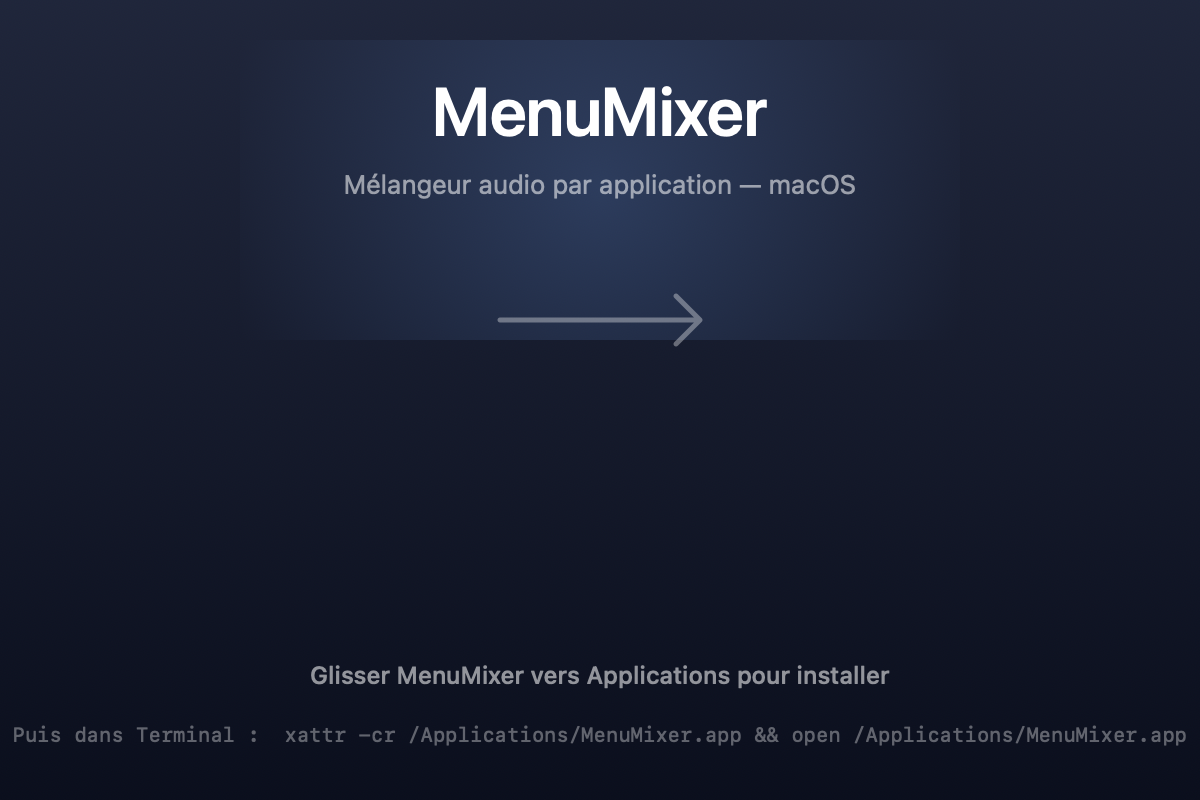
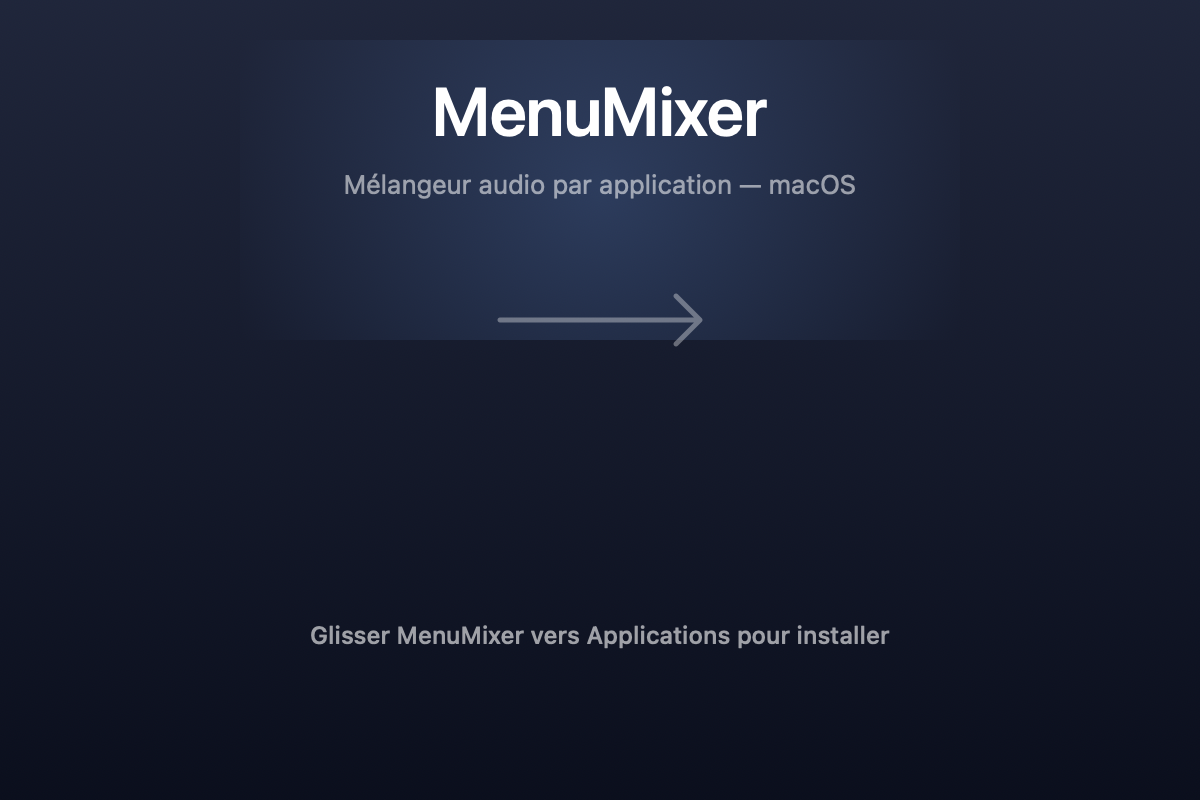
v1.2.1 — Fix background DMG : texte masqué par la status bar Finder
Le rappel Terminal (monospace en bas du PNG) était caché par la status
bar du Finder qui occupe ~30px en bas de la fenêtre. L'instruction
principale "Glisser vers Applications" était aussi très près de la
limite.

- Retrait du rappel Terminal dans le PNG (l'info est déjà dans la
  release GitHub et le README, pas besoin de la dupliquer).
- Remontée de l'instruction "Glisser..." à y=75 pour être bien au-dessus
  de la status bar.

diff --git a/scripts/generate-dmg-background.swift b/scripts/generate-dmg-background.swift
@@ -80,29 +80,17 @@ let captionAttrs: [NSAttributedString.Key: Any] = [
     .foregroundColor: NSColor.white.withAlphaComponent(0.75)
 ]
 
-// Instructions en bas
+// Instructions en bas (remontées pour être au-dessus de la status bar Finder)
 let instrAttrs: [NSAttributedString.Key: Any] = [
     .font: NSFont.systemFont(ofSize: 12, weight: .medium),
-    .foregroundColor: NSColor.white.withAlphaComponent(0.55)
+    .foregroundColor: NSColor.white.withAlphaComponent(0.60)
 ]
 let instr = NSAttributedString(
     string: "Glisser MenuMixer vers Applications pour installer",
     attributes: instrAttrs
 )
 let instrSize = instr.size()
-instr.draw(at: NSPoint(x: (width - instrSize.width) / 2, y: 55))
-
-// Petit rappel Terminal (discret)
-let reminderAttrs: [NSAttributedString.Key: Any] = [
-    .font: NSFont.monospacedSystemFont(ofSize: 10, weight: .regular),
-    .foregroundColor: NSColor.white.withAlphaComponent(0.35)
-]
-let reminder = NSAttributedString(
-    string: "Puis dans Terminal :  xattr -cr /Applications/MenuMixer.app && open /Applications/MenuMixer.app",
-    attributes: reminderAttrs
-)
-let reminderSize = reminder.size()
-reminder.draw(at: NSPoint(x: (width - reminderSize.width) / 2, y: 26))
+instr.draw(at: NSPoint(x: (width - instrSize.width) / 2, y: 75))
 
 image.unlockFocus()
 
